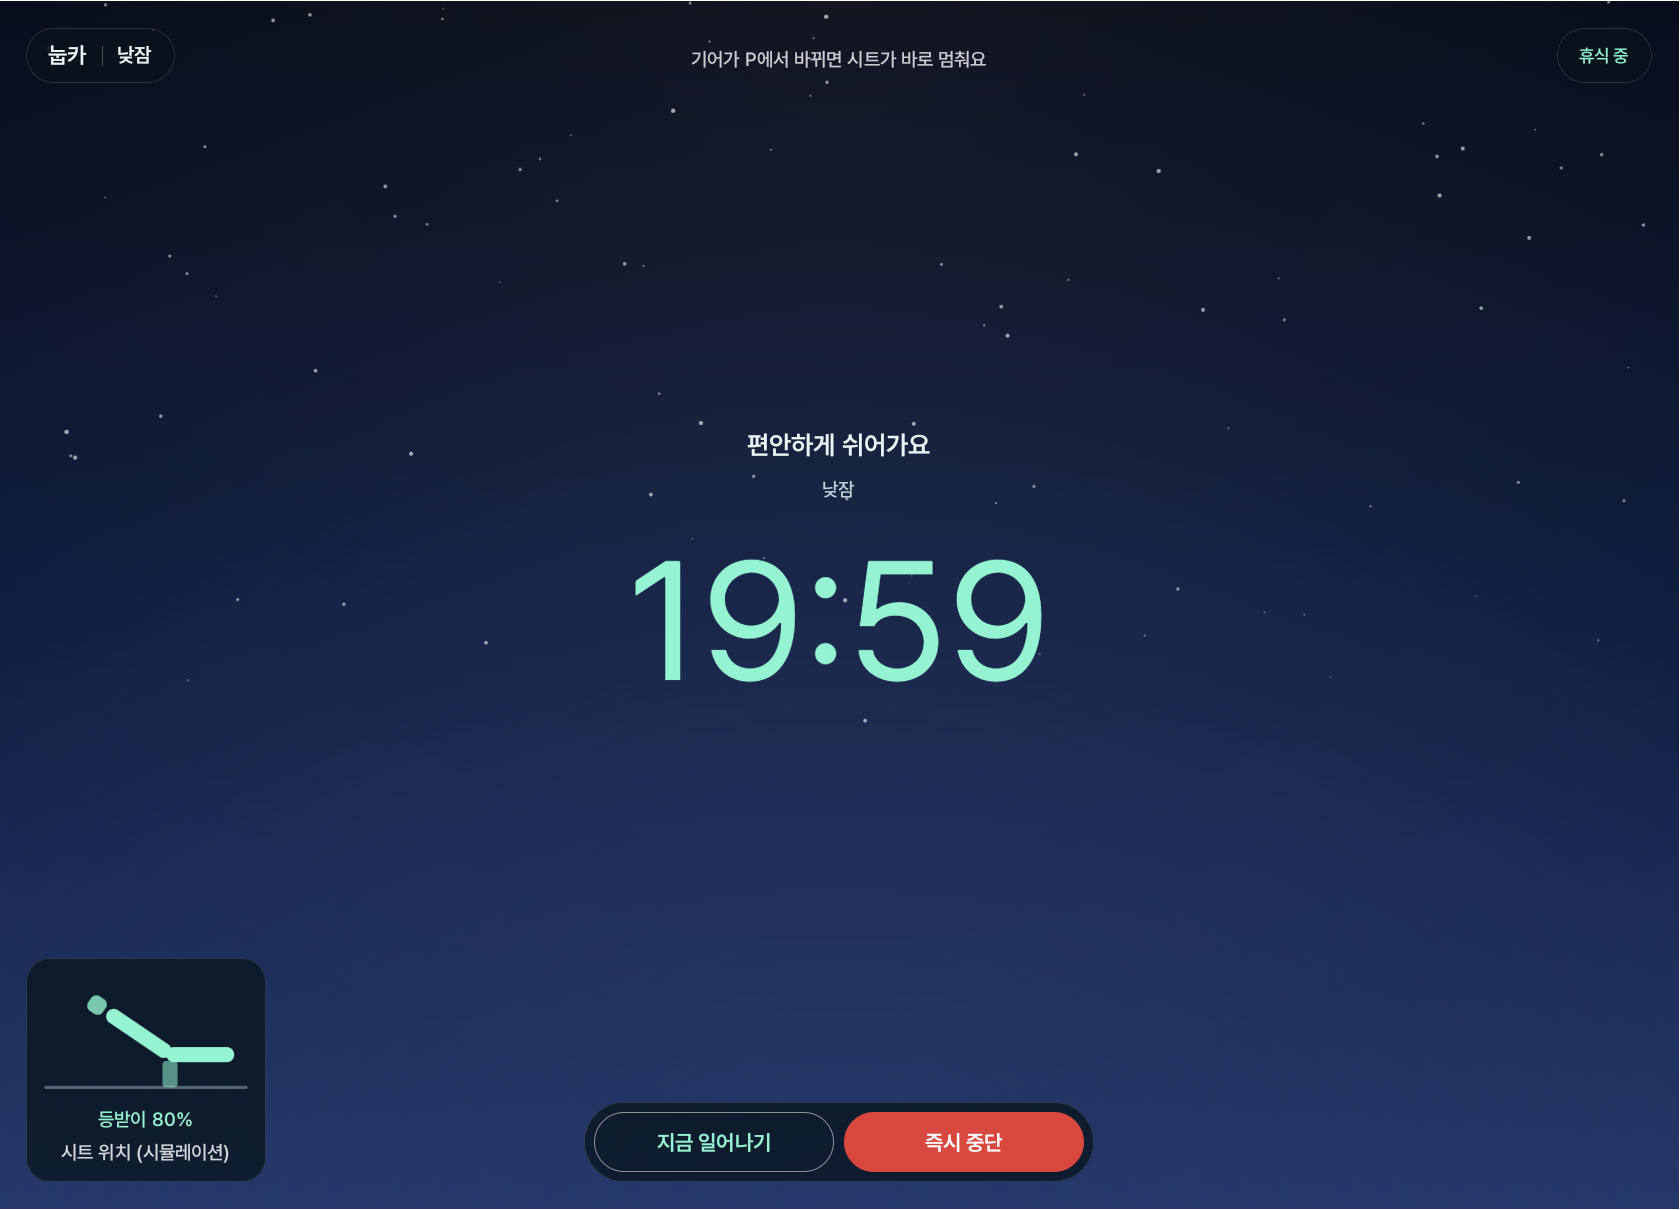
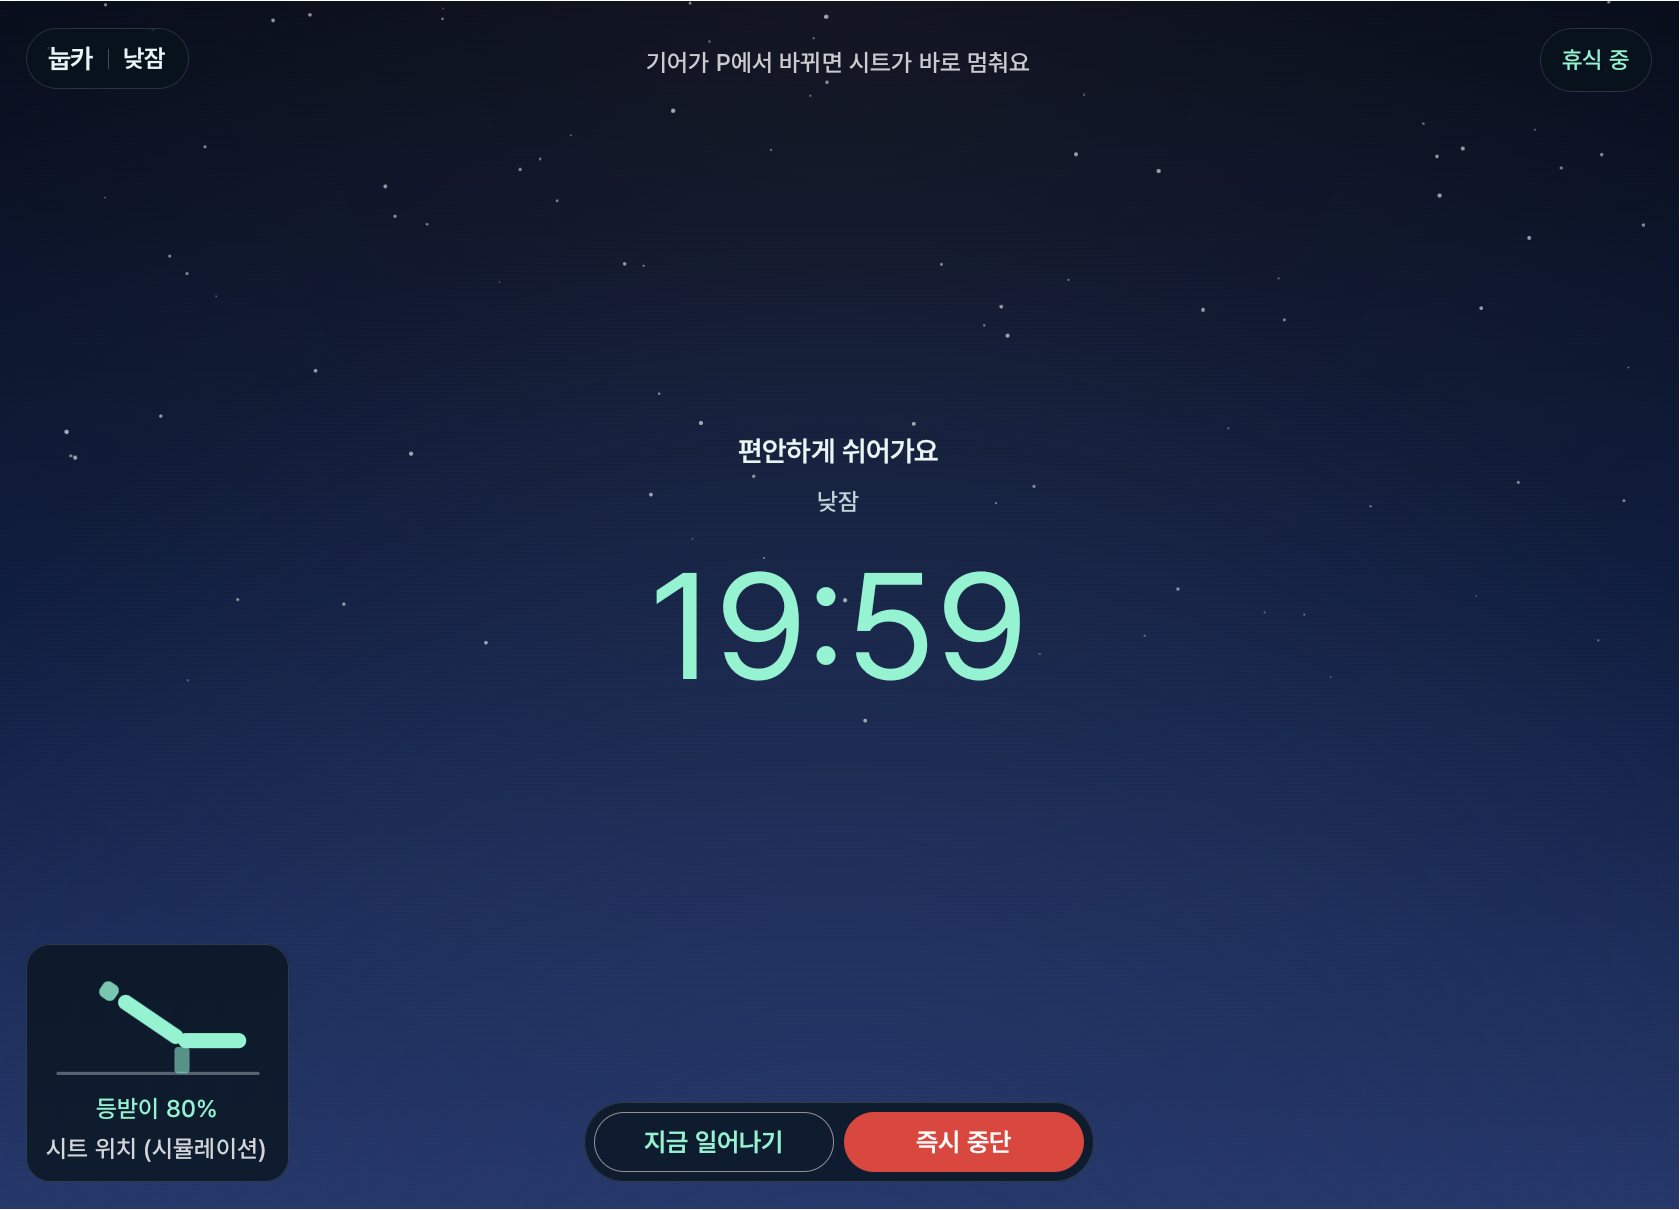
docs: retake README screenshots with the larger cabin text (1.2.4)

diff --git a/README.md b/README.md
@@ -7,7 +7,7 @@
 | ![아래 바에서 시트를 고른 눕카 설정 화면](docs/images/nupcar_scene_setting.png) | ![남은 시간이 가운데 크게 보이는 눕카 휴식 중 화면](docs/images/nupcar_scene_resting.png) |
 | 아래 바에서 **시트**를 고르면 바로 위에 조정 패널이 떠오르고, 가운데 등받이 그림이 설정 각도를 따라갑니다. | 휴식 중에는 남은 시간이 화면 가운데 크게 표시되고, 등받이 상태는 왼쪽 아래에 작게 보입니다. 아래 바에서 바로 일어나거나 멈출 수 있습니다. |
 
-*Pleos Connect Emulator v2.1.0에서 실행한 화면 (v1.2.3)*
+*Pleos Connect Emulator v2.1.0에서 실행한 화면 (v1.2.4)*
 
 > **에뮬레이터 제한 사항:** Pleos Connect Emulator v2.1.0에서는 등받이 이동 명령(`moveSeatBackrestAngle`)이 접수되지만 등받이 위치 값이 0으로 유지되고, 차량 화면에서도 등받이가 움직이지 않습니다. 그래서 앱은 등받이 동작을 **시각화 화면**으로 함께 보여 줍니다. 자세한 내용은 [에뮬레이터 제한 사항](#에뮬레이터-제한-사항)을 참고하세요.
 
